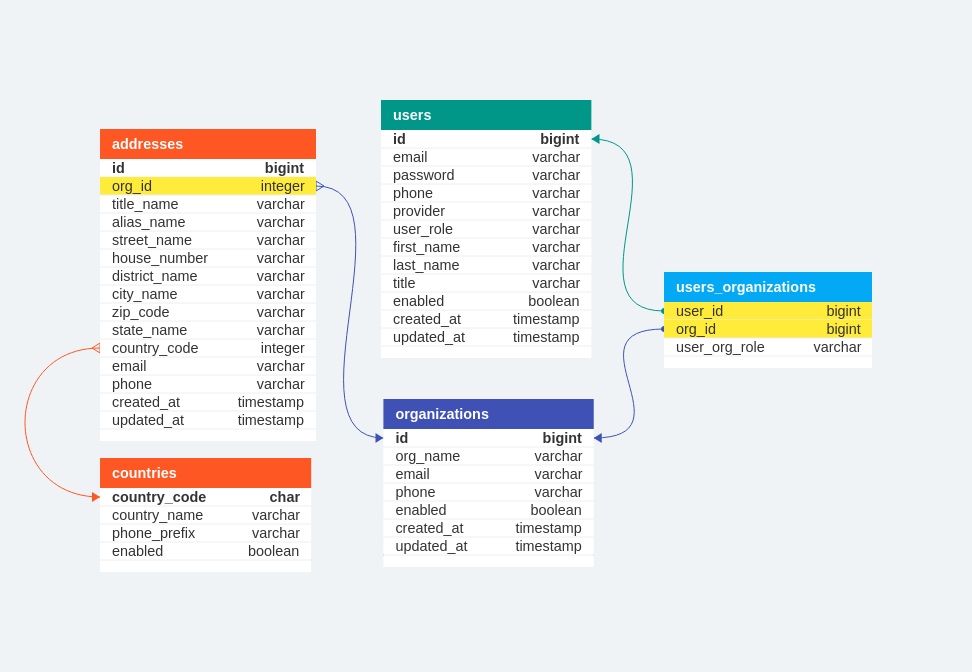
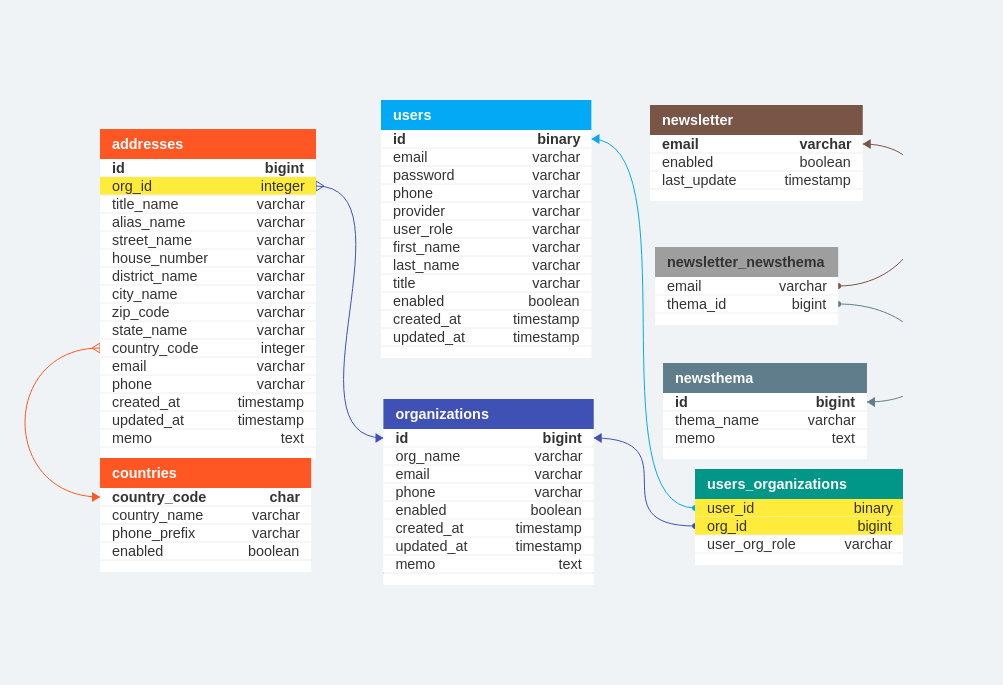
Newsletter

diff --git a/OxaAuth/src/main/java/com/nosetr/auth/controller/AuthRestControllerV1.java b/OxaAuth/src/main/java/com/nosetr/auth/controller/AuthRestControllerV1.java
@@ -29,7 +29,7 @@ import reactor.core.publisher.Mono;
  * @autor Nikolay Osetrov
  * @since 0.1.0
  */
-@Tag(name = "AuthenticationV1", description = "APIs for users authentication and registration")
+@Tag(name = "Authentication_V1", description = "APIs for users authentication and registration")
 @RestController
 @RequiredArgsConstructor
 @RequestMapping("/api/v1/auth")
@@ -50,19 +50,25 @@ public class AuthRestControllerV1 {
 	 * @see            UserDto
 	 */
 	@Operation(
-			summary = "Register new user", description = "Password need:"
+			summary = "Register new user", description = "Password need:\n"
 					+ " * at least 8 characters and at most 100 chars,\n"
 					+ " * at least one upper-case character,\n"
 					+ " * at least one lower-case character,\n"
 					+ " * at least one digit character,\n"
 					+ " * at least one symbol (special character)\n"
-					+ " * and no whitespace", tags = { "auth", "register", "post" }
+					+ " * and no whitespace", tags = { "users_tag", "post_tag" }
 	)
 	@ApiResponses(
 		{
 				@ApiResponse(
 						responseCode = "200", content = {
 								@Content(schema = @Schema(implementation = UserDto.class), mediaType = "application/json") }
+				),
+				@ApiResponse(responseCode = "404", content = { @Content(schema = @Schema()) }),
+				@ApiResponse(
+						responseCode = "500", content = { @Content(
+								schema = @Schema()
+						) }
 				)
 		}
 	)
@@ -86,8 +92,8 @@ public class AuthRestControllerV1 {
 	 * @see                   AuthRequestDto
 	 */
 	@Operation(
-			summary = "Login with email and password. Create response with token and additional info.", tags = { "auth",
-					"login", "post" }
+			summary = "Login with email and password. Create response with token and additional info.",
+			tags = { "users_tag", "post_tag" }
 	)
 	@ApiResponses(
 		{
@@ -95,8 +101,12 @@ public class AuthRestControllerV1 {
 						responseCode = "200", content = {
 								@Content(schema = @Schema(implementation = AuthResponseDto.class), mediaType = "application/json") }
 				),
-		//				@ApiResponse(responseCode = "404", content = { @Content(schema = @Schema()) }),
-		//				@ApiResponse(responseCode = "500", content = { @Content(schema = @Schema()) })
+				@ApiResponse(responseCode = "404", content = { @Content(schema = @Schema()) }),
+				@ApiResponse(
+						responseCode = "500", content = { @Content(
+								schema = @Schema()
+						) }
+				)
 		}
 	)
 	@PostMapping("/login")

diff --git a/OxaAuth/src/main/java/com/nosetr/auth/controller/UserProfileControllerV1.java b/OxaAuth/src/main/java/com/nosetr/auth/controller/UserProfileControllerV1.java
@@ -30,7 +30,7 @@ import reactor.core.publisher.Mono;
  * @autor Nikolay Osetrov
  * @since 0.1.0
  */
-@Tag(name = "UserProfileV1", description = "APIs for users profile")
+@Tag(name = "UserProfile_V1", description = "APIs for users profile")
 @RestController
 @RequiredArgsConstructor
 @RequestMapping("/api/v1/profile")
@@ -49,15 +49,19 @@ public class UserProfileControllerV1 {
 	 * @return
 	 */
 	@Operation(
-			summary = "Update users info", description = "Authorized user can update info about himself.", tags = { "profile",
-					"update", "put" }
+			summary = "Update users info", description = "Authorized user can update info about himself.",
+			tags = { "users_tag", "put_tag" }
 	)
 	@ApiResponses(
 		{
 				@ApiResponse(
 						responseCode = "200", content = {
 								@Content(schema = @Schema(implementation = UserDto.class), mediaType = "application/json") }
-				)
+				),
+				@ApiResponse(responseCode = "404", content = { @Content(schema = @Schema()) }),
+				@ApiResponse(
+						responseCode = "500", content = { @Content(
+								schema = @Schema()) })
 		}
 	)
 	@PutMapping("/update")
@@ -79,15 +83,19 @@ public class UserProfileControllerV1 {
 	 */
 	//	@PreAuthorize("hasAnyRole('USER')") // TODO make role
 	@Operation(
-			summary = "Get users info", description = "Authorized user can get info about himself.", tags = { "profile",
-					"get" }
+			summary = "Get users info", description = "Authorized user can get info about himself.",
+			tags = { "users_tag", "get_tag" }
 	)
 	@ApiResponses(
 		{
 				@ApiResponse(
 						responseCode = "200", content = {
 								@Content(schema = @Schema(implementation = UserDto.class), mediaType = "application/json") }
-				)
+				),
+				@ApiResponse(responseCode = "404", content = { @Content(schema = @Schema()) }),
+				@ApiResponse(
+						responseCode = "500", content = { @Content(
+								schema = @Schema()) })
 		}
 	)
 	@GetMapping("/info")

diff --git a/OxaAuth/src/main/java/com/nosetr/auth/dto/UserDto.java b/OxaAuth/src/main/java/com/nosetr/auth/dto/UserDto.java
@@ -12,11 +12,13 @@ import com.nosetr.auth.util.annotation.ValidPassword;
 
 import jakarta.validation.constraints.NotBlank;
 import jakarta.validation.constraints.Size;
+import lombok.Builder;
 import lombok.Data;
 
 /**
  * DTO for users registration.
- * <p> All field, but not confirmPassword are equals to {@link UserEntity}
+ * <p> All field, but not confirmPassword and newsletter are equals to
+ * {@link UserEntity}
  * 
  * @autor Nikolay Osetrov
  * @since 0.1.0
@@ -30,6 +32,7 @@ import lombok.Data;
 	}
 )
 @Data
+@Builder(toBuilder = true)
 public class UserDto {
 
 	private UUID id;
@@ -48,19 +51,21 @@ public class UserDto {
 	private String confirmPassword;
 
 	private UserRoleEnum userRole;
-	
+
 	private String title;
 
 	@NotBlank(message = "{validation.field.NotBlank}")
-  @Size(message = "{validation.firstname.size}", min = 2, max = 64)
-//	@JsonProperty("first_name")
+	@Size(message = "{validation.firstname.size}", min = 2, max = 64)
+	//	@JsonProperty("first_name")
 	private String firstName;
 
 	@NotBlank(message = "{validation.field.NotBlank}")
-  @Size(message = "{validation.lastname.size}", min = 2, max = 64)
+	@Size(message = "{validation.lastname.size}", min = 2, max = 64)
 	private String lastName;
 
 	private boolean enabled;
+
+	private boolean newsletter;
 
 	private LocalDateTime createdAt;
 

diff --git a/OxaAuth/src/main/java/com/nosetr/auth/controller/OAuth2ControllerV1.java b/OxaAuth/src/main/java/com/nosetr/auth/controller/OAuth2ControllerV1.java
@@ -10,6 +10,7 @@ import org.springframework.web.bind.annotation.PathVariable;
 import org.springframework.web.bind.annotation.RequestMapping;
 import org.springframework.web.bind.annotation.RestController;
 
+import io.swagger.v3.oas.annotations.Operation;
 import io.swagger.v3.oas.annotations.tags.Tag;
 import reactor.core.publisher.Mono;
 
@@ -20,7 +21,7 @@ import reactor.core.publisher.Mono;
  * @autor Nikolay Osetrov
  * @since 0.1.0
  */
-@Tag(name = "OAuth2V1", description = "APIs for users authentication and registration with OAuth2")
+@Tag(name = "OAuth2_V1", description = "APIs for users authentication and registration with OAuth2")
 @RestController
 @RequestMapping("/api/v1/oauth2")
 public class OAuth2ControllerV1 {
@@ -35,6 +36,10 @@ public class OAuth2ControllerV1 {
 	@Autowired
 	private ReactiveClientRegistrationRepository clientRegistrationRepository;
 
+	@Operation(
+			summary = "OAuth2 login success", description = "Get info after users OAuth2-authentication with success.",
+			tags = { "users_tag", "get_tag" }
+	)
 	@GetMapping("/{provider}")
 	public Mono<String> loginSuccess(@PathVariable String provider, @AuthenticationPrincipal Mono<OAuth2User> oauth2User) {
 		

diff --git a/OxaAuth/src/main/java/com/nosetr/auth/entity/NewsletterEntity.java b/OxaAuth/src/main/java/com/nosetr/auth/entity/NewsletterEntity.java
@@ -1,0 +1,30 @@
+package com.nosetr.auth.entity;
+
+import java.time.LocalDateTime;
+
+import org.springframework.data.annotation.Id;
+import org.springframework.data.relational.core.mapping.Table;
+
+import lombok.AllArgsConstructor;
+import lombok.Builder;
+import lombok.Data;
+import lombok.NoArgsConstructor;
+
+/**
+ * Entity for newsletter-table.
+ * 
+ * @autor Nikolay Osetrov
+ * @since 0.1.1
+ */
+@Data
+@Builder(toBuilder = true)
+@NoArgsConstructor
+@AllArgsConstructor
+@Table("newsletter")
+public class NewsletterEntity {
+
+	@Id
+	private String email;
+	private boolean enabled;
+	private LocalDateTime lastUpdate;
+}
